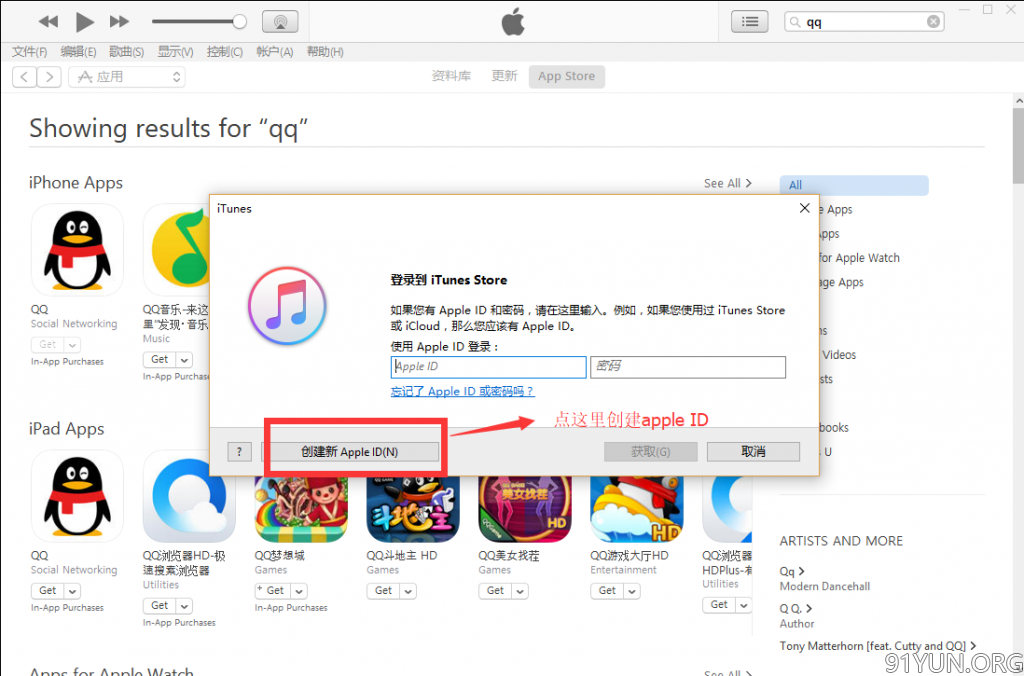
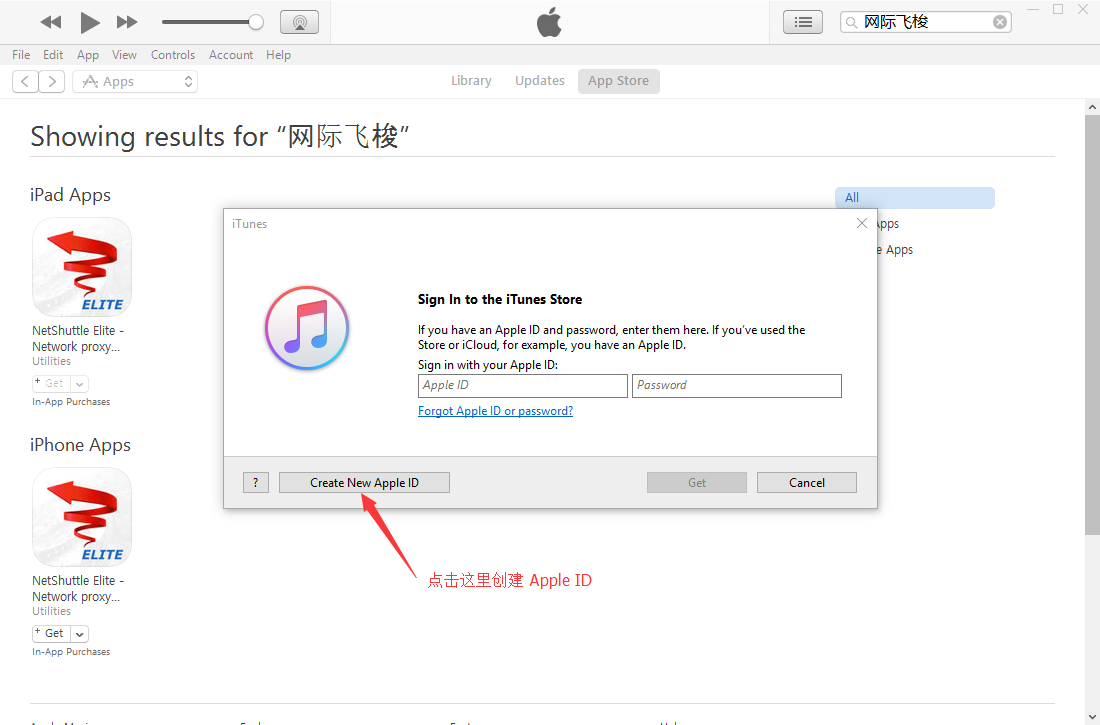
m

diff --git a/AppleID4USA.md b/AppleID4USA.md
@@ -38,8 +38,8 @@
 
 ## 第四步：下载一个免费的 App
 
-* 我这里以 QQ 为例，反正 QQ 在哪个区域都有。
-* 搜索 QQ ，并点击“Get”来弹出登录框。
+* 我这里以 网际飞梭 为例，反正 网际飞梭 在中国区以外的所有区域都有。
+* 搜索 网际飞梭 ，并点击“Get”来弹出登录框。
 * **一定要通过下载应用弹出的登录框来注册 Apple ID ，否则在“支付方式”的设定页面将没有“None”选项。苹果一贯很龌龊，你懂的。**
 
 ![tu](https://raw.githubusercontent.com/OneSecure/ShadowAgentNotes/master/AppleID/20170729200654.png)
